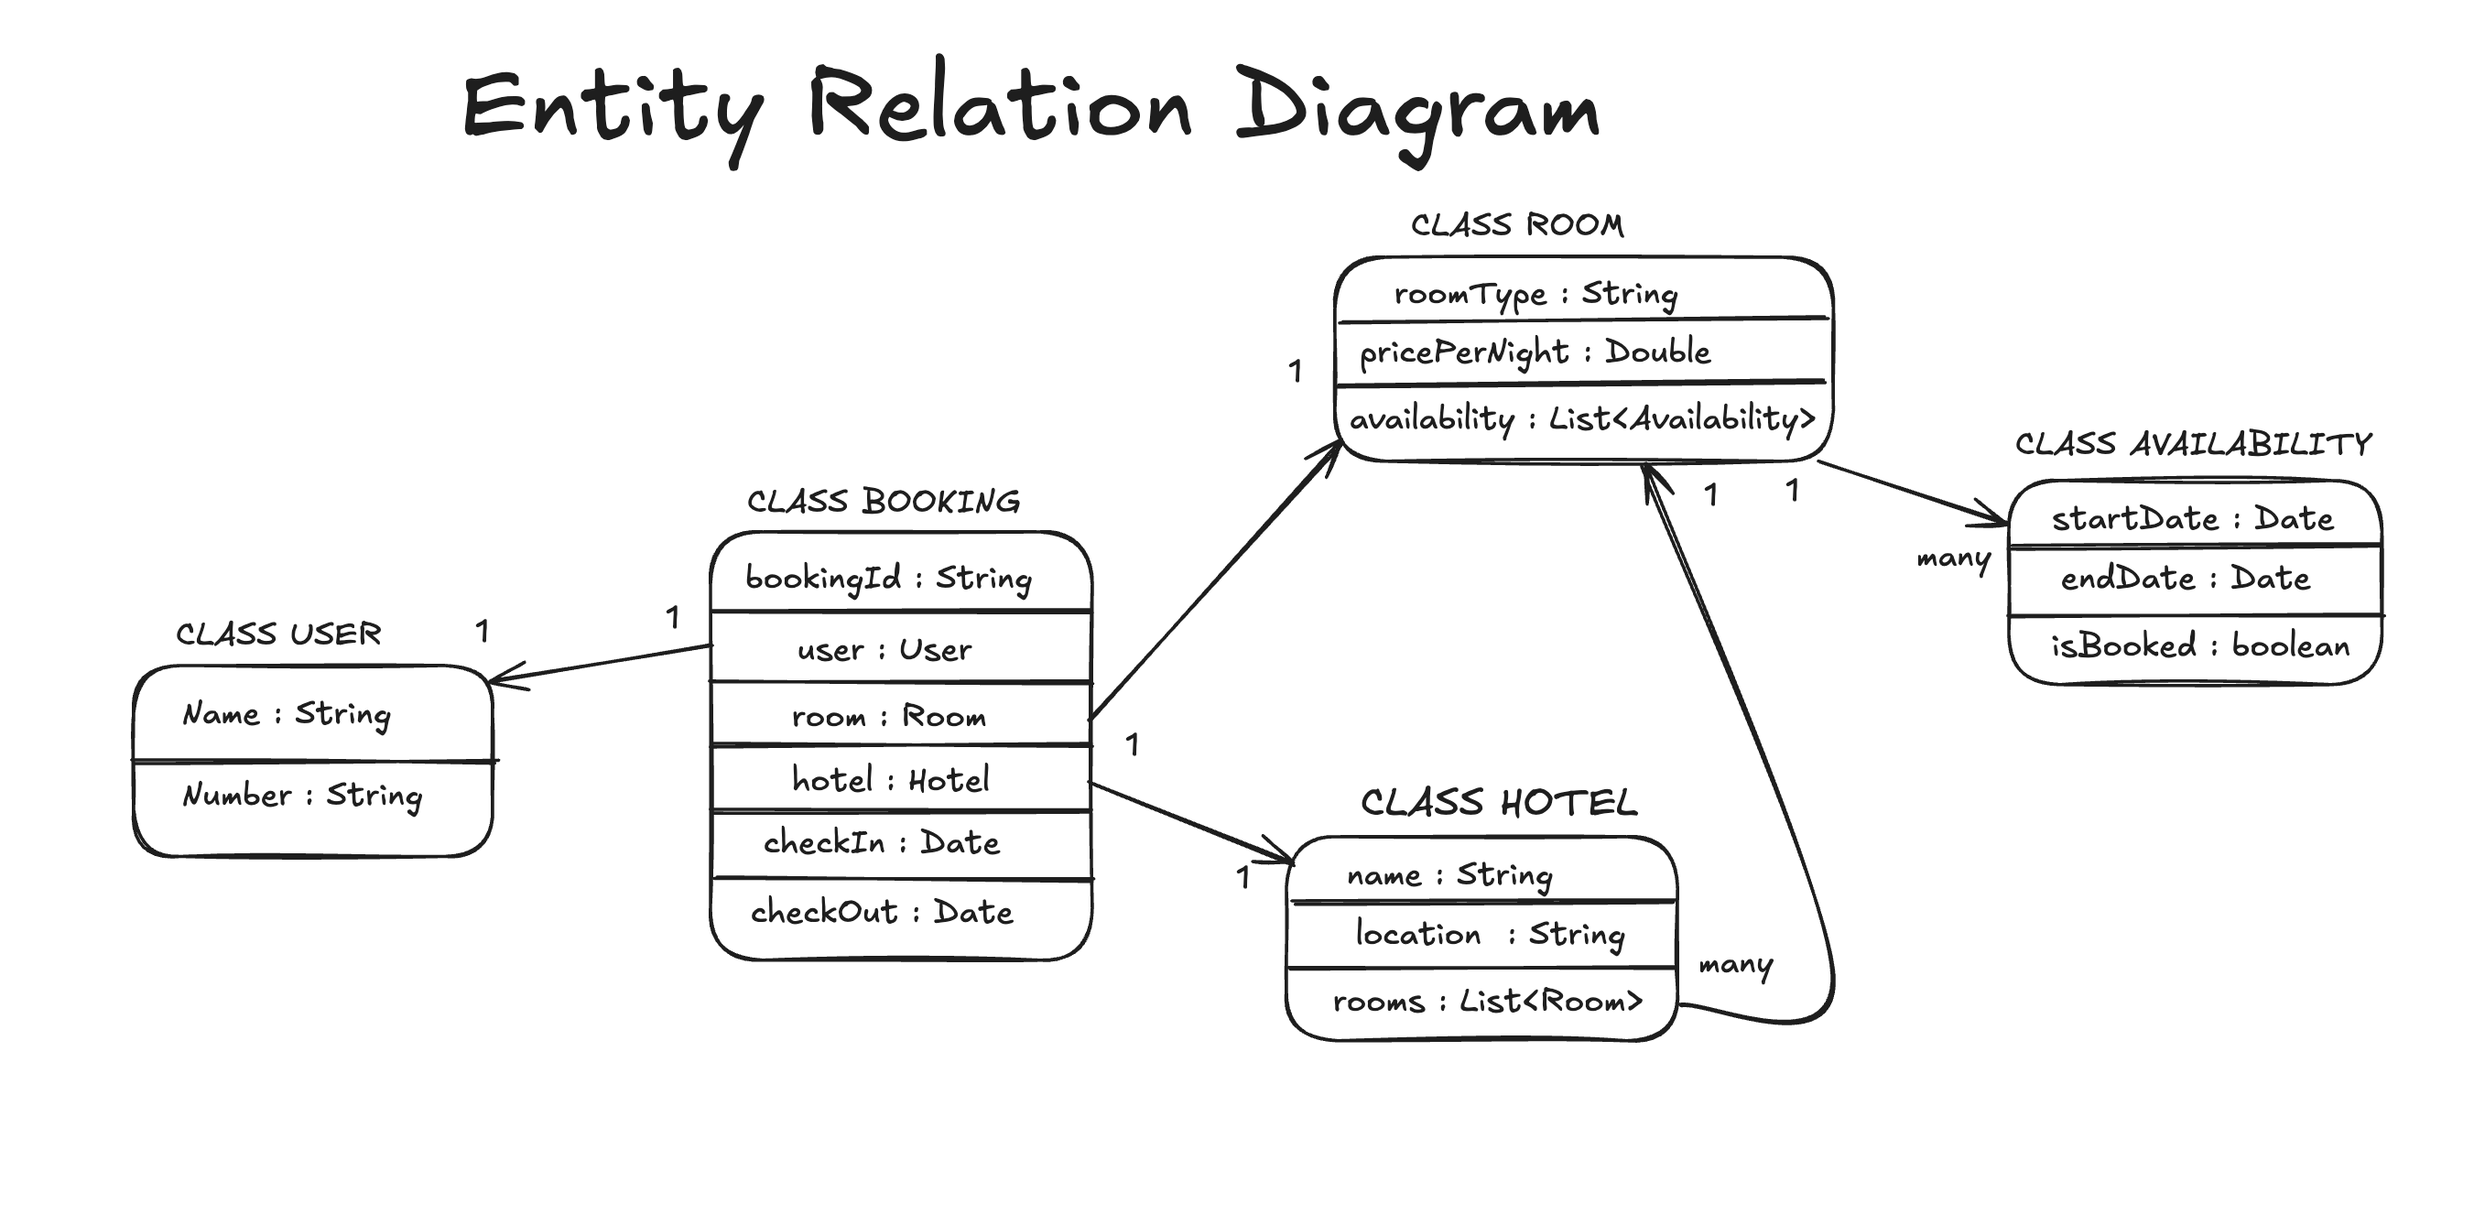
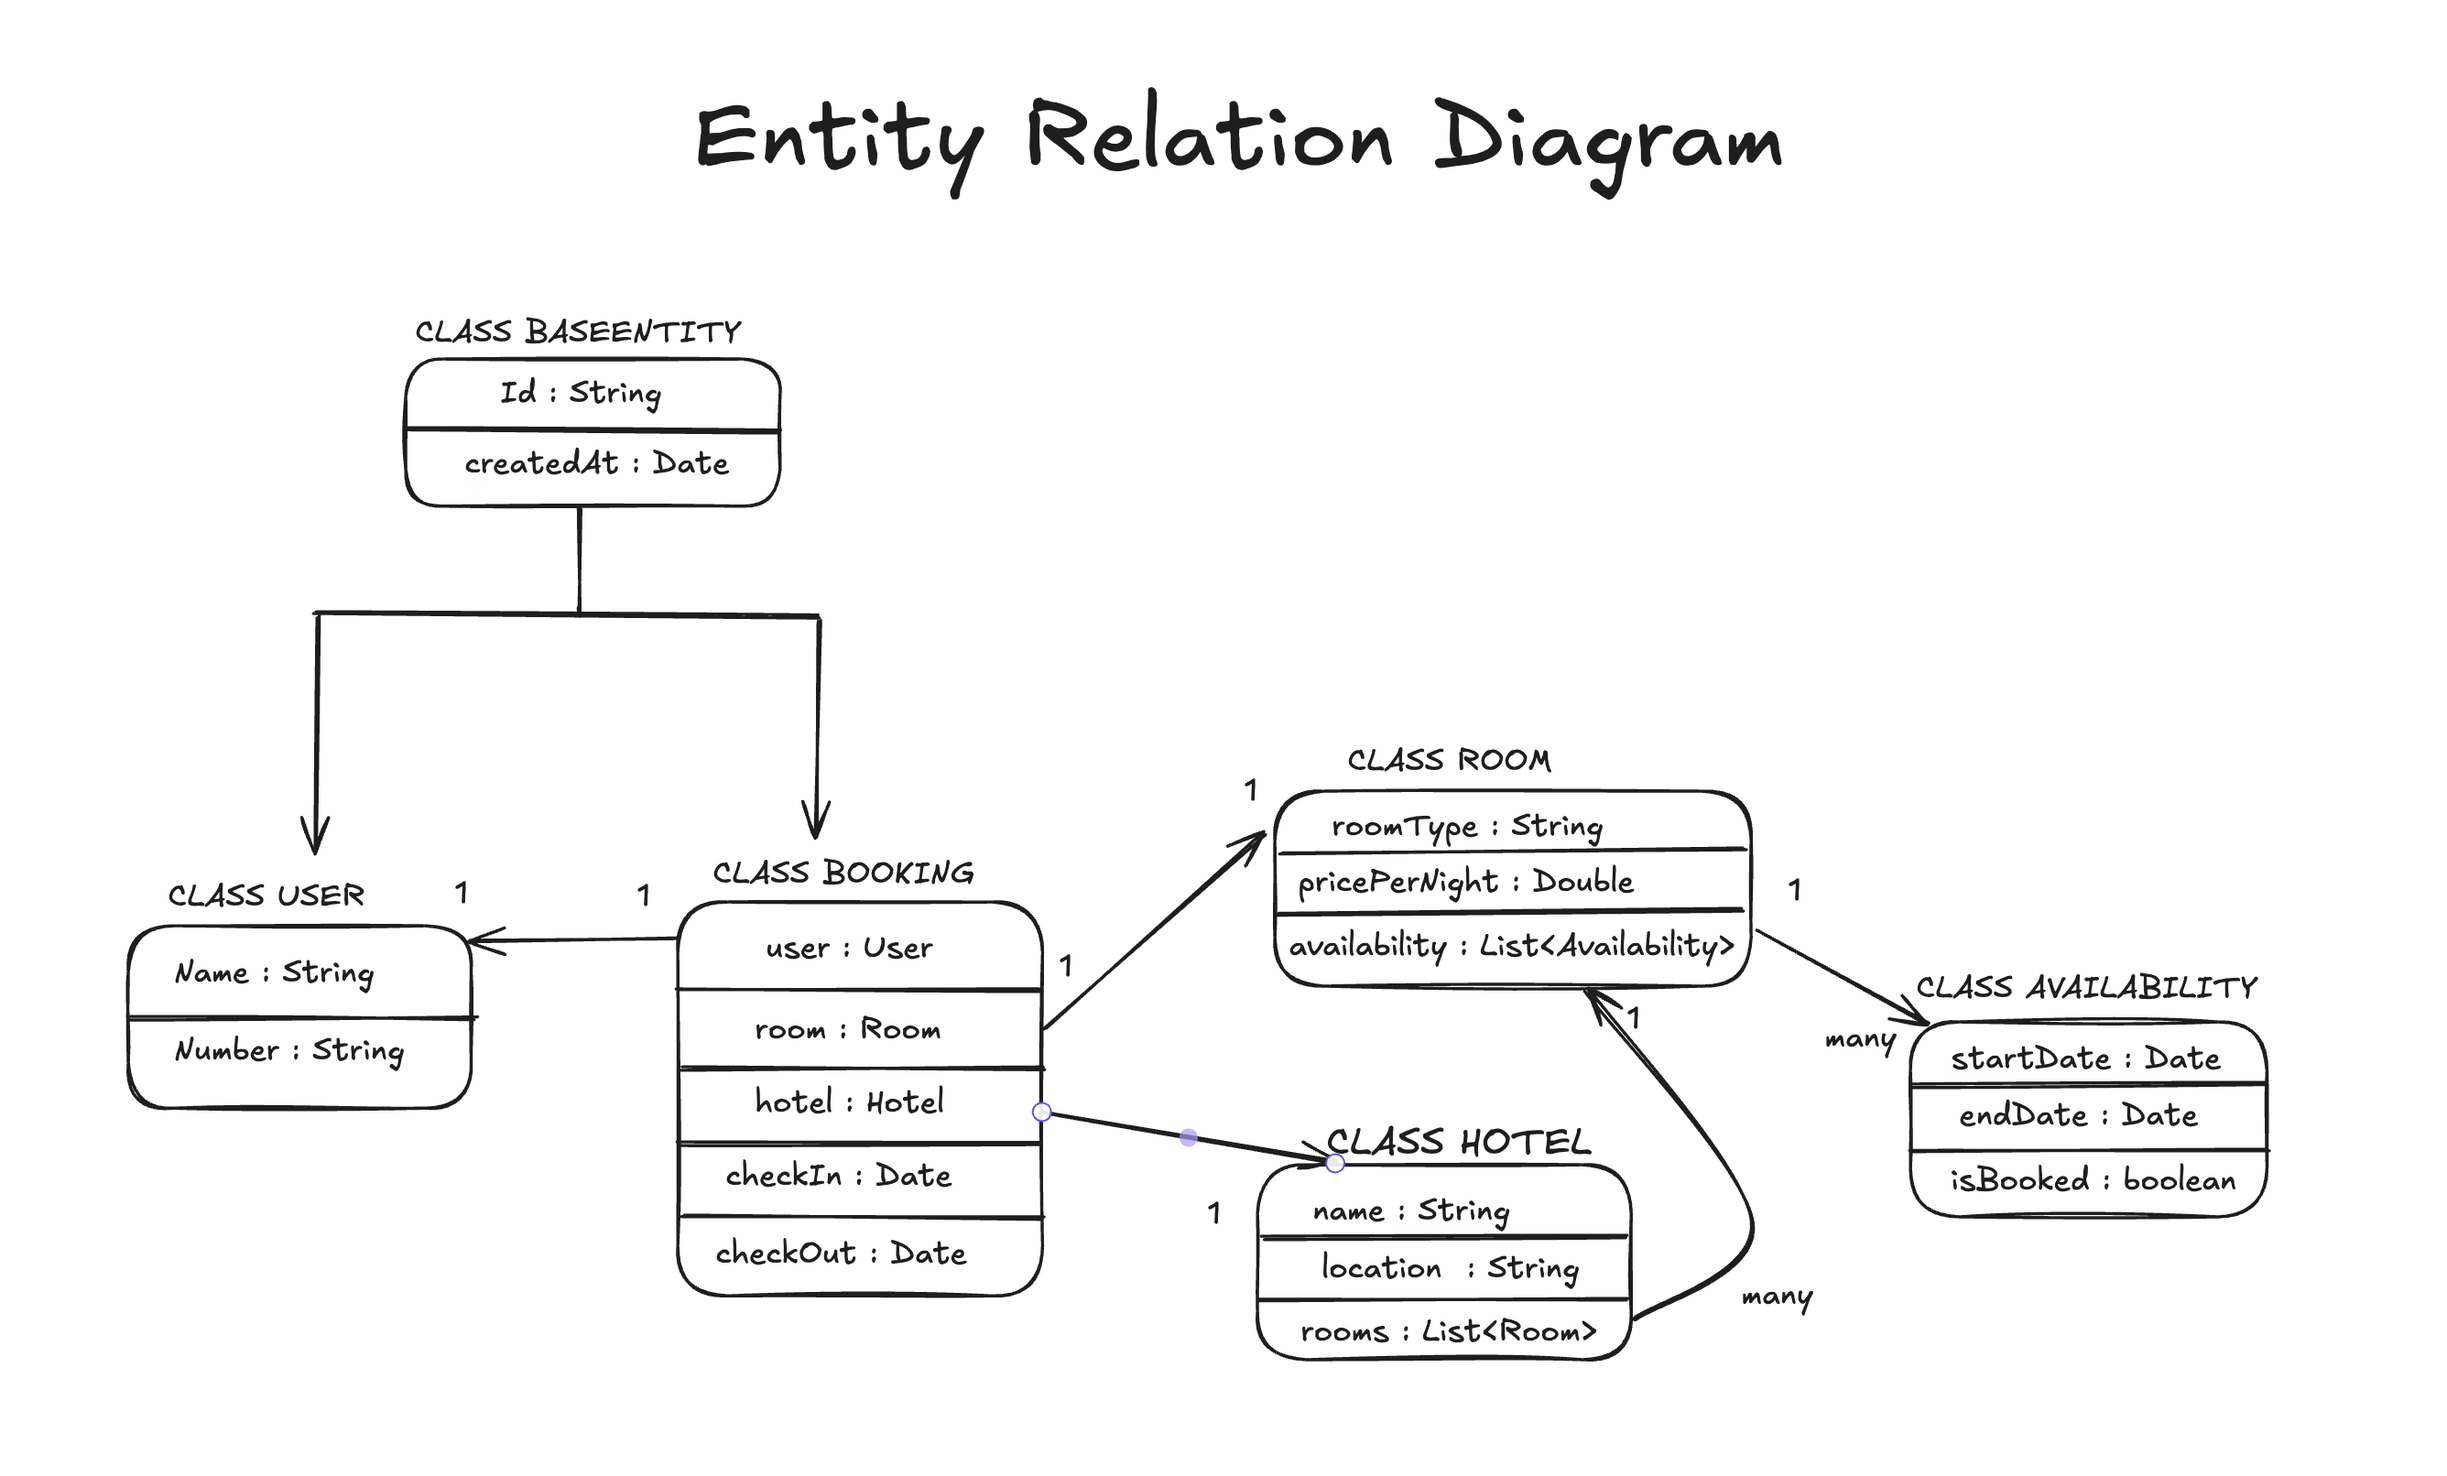
updated the Entity relation diagram

diff --git a/hotel_booking/src/main/java/com/bookingSystem/model/BaseEntity.java b/hotel_booking/src/main/java/com/bookingSystem/model/BaseEntity.java
@@ -1,15 +1,43 @@
 package com.bookingSystem.model;
 
+import java.time.LocalDateTime;
 import java.util.UUID;
 
+/**
+ * Base class which will be exetend to generate the Id
+ */
 public abstract class BaseEntity{
     protected final String id;
+    private static int userCounter = 0;
+    private LocalDateTime createdAt;
     
+    /**
+     * Parameterless constructor
+     */
     protected BaseEntity() {
-        this.id = UUID.randomUUID().toString();
+        if(this instanceof Booking){
+            this.id = UUID.randomUUID().toString();
+        }else{
+            userCounter++;
+            this.id = String.valueOf(userCounter);
+        }
+        createdAt = LocalDateTime.now();
+        
     }
     
+    /**
+     * get the id
+     * @return
+     */
     public String getId() {
         return id;
+    }
+    
+    /**
+     * get the creational time of ID
+     * @return
+     */
+    public LocalDateTime getCreatedAt(){
+        return createdAt;
     }
 }

diff --git a/hotel_booking/src/main/java/com/bookingSystem/util/BookingUtil.java b/hotel_booking/src/main/java/com/bookingSystem/util/BookingUtil.java
@@ -1,7 +1,6 @@
 package com.bookingSystem.util;
 
 import java.time.LocalDate;
-import java.util.UUID;
 
 import com.bookingSystem.model.Booking;
 
@@ -13,14 +12,6 @@ import java.time.temporal.ChronoUnit;
 public class BookingUtil {
 
     /**
-     * Generates a unique booking id.
-     * @return String
-     */
-    public String generateBookingId() {
-        return UUID.randomUUID().toString();
-    }
-
-    /**
      * Calculates the difference betweeen checkin and checkout time
      * @param checkIn
      * @param checkOut
@@ -30,6 +21,10 @@ public class BookingUtil {
         return ChronoUnit.DAYS.between(checkIn, checkOut);
     }
 
+    /**
+     * Printing the booking details
+     * @param booking
+     */
     public void printBookingDetails(Booking booking){
         System.out.println("Booking ID : " + booking.getId());
         System.out.println("Location : "+booking.getHotel().getLocation());

diff --git a/hotel_booking/src/main/java/com/bookingSystem/model/User.java b/hotel_booking/src/main/java/com/bookingSystem/model/User.java
@@ -3,7 +3,7 @@ package com.bookingSystem.model;
 /**
  * User class represents a user with a name and phone number.
  */
-public class User {
+public class User extends BaseEntity{
     private String name;
     private String number;
 
@@ -13,6 +13,7 @@ public class User {
      * @param number
      */
     public User(String name, String number) {
+        super();
         this.name = name;
         this.number = number;
     }

diff --git a/README.md b/README.md
@@ -52,6 +52,7 @@ hotel_booking/
 │   │   │       └── bookingSystem
 │   │   │           ├── model
 |   |   |                   ├── Availability.java
+|   |   |                   ├── BaseEntity.java
 |   |   |                   ├── Booking.java
 |   |   |                   ├── Hotel.java
 |   |   |                   ├── Room.java
@@ -82,32 +83,31 @@ Below is the Entity relation diagram for the hotel booking system :
 
 ### Explanation of the Diagram
 
-1. `Availability` : Represents the availability status of a room for a specific date range. It  includes fields such as start date, end date, and a boolean indicating whether the room is available.
-2. `Booking` : Represents a booking made by a user. It includes details such as booking ID, user information, room information, hotel information, check-in date, and check-out date.  
-3. `Hotel` :  Represents a hotel. It includes details such as  name, location, and a list of rooms available in the hotel, here `Booking` class is having one to many relation with `Hotel` entity and `Hotel` is many to one relation with entity `Room`.
-4. `Room` : Represents a room in a hotel. It includes details such as room type, pricePerNight, availability status. Here Entity `Room` is having one to many relation with `Availability` entity 
-5. `User` : Represents a user of the system. It includes user details such as user ID, name, contact information, and booking history.
+1. `BaseEntity` :  This is an abstract root class for the Booking and User classes. It is used to generate a unique ID and record the creation time of the entity. The BaseEntity class ensures that every entity that extends it will have a unique identifier and a timestamp indicating when it was created.
+2. `Availability` : Represents the availability status of a room for a specific date range. It  includes fields such as start date, end date, and a boolean indicating whether the room is available.
+3. `Booking` : Represents a booking made by a user. It includes details such as booking ID, user information, room information, hotel information, check-in date, and check-out date.  
+4. `Hotel` :  Represents a hotel. It includes details such as  name, location, and a list of rooms available in the hotel, here `Booking` class is having one to many relation with `Hotel` entity and `Hotel` is many to one relation with entity `Room`.
+5. `Room` : Represents a room in a hotel. It includes details such as room type, pricePerNight, availability status. Here Entity `Room` is having one to many relation with `Availability` entity 
+6. `User` : Represents a user of the system. It includes user details such as user ID, name, contact information, and booking history.
 
 ## Functionalities Demo
 
-When you run the Main.java file you will see the following options 
+When you run the `Main.java` file, you will see the following options:
 
 ![alt text](image.png)
 
 ### 1. Checking Room Availability
-When the user enter's `1` to check room availability. The system will then display the available rooms. Below is a screenshot of the availability check process :
+When the user enters `1` to check room availability, the system will display the available rooms. Below is a screenshot of the availability check process :
 
 ![alt text](image-1.png)
 
 ### 2. Search hotel by city
-When the user enter's `2` to search hotel by city. The system will then give a choice to user 
-to select city's which is present in Database
+When the user enters `2` to search for a hotel by city, the system will provide a choice of cities that are present in the database :
 
 ![alt text](image-2.png)
 
 based on selected city suppose user enter's `1` and city `Mumbai` is selected then user need to enter the Check-in Date and Check-out Date in the correct format i.e `YYYY-MM-DD`,
-when user enter the check-in date and check-out date in correct format the system will check in 
-database do we have Hotel's have availability for those days if present will print the Hotel name with the room type available, check image for reference
+when user enter the check-in date and check-out date in correct format the system will check in database do we have Hotel's have availability for those days if present will print the Hotel name with the room type available, check image for reference
 
 ![alt text](image-3.png)
 
@@ -134,16 +134,23 @@ When user select option `4` the program will stop its execution.
 ## OOPS Concepts Implementation
 
 1. **Abstraction**: 
-    - The project uses abstraction to hide complex implementation details and expose only the necessary functionalities. For example, the `BookingService` class provides methods to book rooms without exposing the underlying logic of how the booking is processed.
+   - Created the abstract class `BaseEntity` and service layer interfaces which are implemented to achieve abstraction. This allows us to define common properties and methods that can be shared across multiple classes while hiding the implementation details.
 
 2. **Encapsulation**: 
-    - Encapsulation is achieved by using private fields and public getter and setter methods in classes like `Hotel`, `Room`, `User`, etc. This ensures that the internal state of an object is protected from unauthorized access and modification.
+   - Encapsulated the properties of classes by making them private and providing public getter and setter methods. This ensures that the internal state of an object is protected and can only be accessed or modified through controlled methods.
 
-3. **Polymorphism**: 
-    - Polymorphism is implemented through method overriding and interface implementation. For instance, different types of rooms (e.g., SingleRoom, DoubleRoom) can override the `getPricePerNight` method to provide specific pricing logic.
+3. **Inheritance**: 
+   - Added the `BaseEntity` class which is extended by other classes such as `Booking` and `User`. This allows these classes to inherit common properties and methods from `BaseEntity`, promoting code reuse and reducing redundancy.
 
-4. **Modularity**: 
+4. **Polymorphism**: 
+   - Implemented polymorphism through method overriding and interface implementation. For example, different service implementations (`BookingServiceImpl`, `HotelServiceImpl`, `RoomServiceImpl`) provide specific behaviors for the methods defined in their respective interfaces (`IBookingService`, `IHotelService`, `IRoomService`).
+
+5. **Modularity**: 
     - The project is organized into different packages such as `model`, `service`, and `util`, each containing related classes. This modular structure makes the codebase more manageable and promotes separation of concerns.
+
+6. **Composition**: 
+   - Used composition to build complex objects from simpler ones. For example, a `Hotel` object contains a list of `Room` objects, and a `Booking` object contains references to `User`, `Room`, and `Hotel` objects. This allows for a more modular and flexible design.
+ 
 
 These OOP principles help in creating a well-structured, maintainable, and scalable hotel booking system.
 
